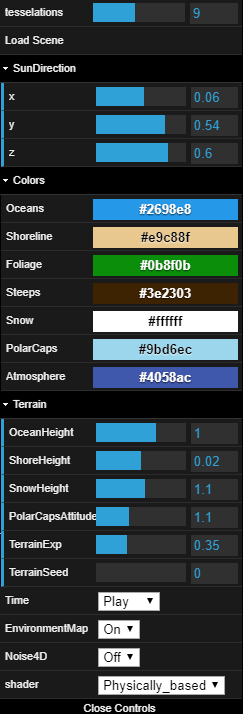
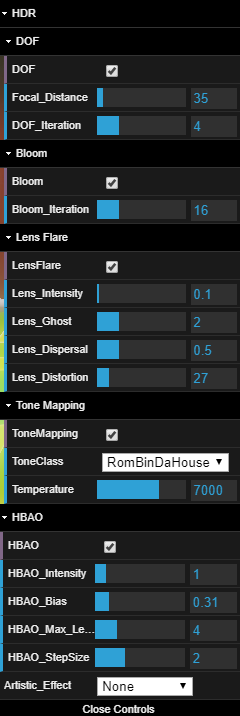
update
update

diff --git a/README.md b/README.md
@@ -14,3 +14,109 @@
 * [WebGL Link](https://byumjin.github.io/MarioInTheSkyCity/)
 
 - Volume up!
+
+### GUI
+
+![](imgs/GUI.png)
+
+- DOF
+    - Focal_Distance : control the focal point focused by main camera.
+    - DOF_Iteration : The number of iteration of DOF's blur 
+- Bloom
+    - Bloom_Iteration : The number of iteration of Bloom effect's blur 
+- Lens Flare
+    - Lens_Intensity : Intensity of Lens flare effect
+    - Lens_Ghost : The number of ghost effects
+    - Lens_Dispersal : The degree of stracted ghost effects
+    - Lens_Distortion : The intensity of choromatic effects
+- Tone Mapping
+    - ToneClass : choose one of pre-defined tone mapping effect
+    - Temperature : control the color temperature
+- HBAO
+    - HBAO_Intensity : Intensity of HBAO
+    - HBAO_Bias : cap the minimum angle for calculating AO
+    - HBAO_Max_Length : cap the maximum length of AO comparison between neighbor pixels
+    - HBAO_StepSize : Step size for comparison between neighbor pixels
+Artistic_Effect
+    - Pointillism
+    - Oil Painting
+
+
+## Graphics PipeLines
+
+| Graphics Pipelines |
+| --- |
+| ![](imgs/pipeline.png) |
+
+
+### Standard Shadow Mapping
+
+I used standard shadow mapping (as known as depthmap shadow).
+Due to the size of my scene, it needed to use a huge resolution of the shadow map (like 4096 x 4096), for the performance of the other post-process effects, I could not do it.
+The resolution of the shadow map is now 2048 x 2048.
+
+
+### HBAO (Horizontal-Based Ambient Occulusion)
+
+| HBAO Off | HBAO On |
+| --- | --- |
+| ![](imgs/HBAO_off.png) | ![](imgs/HBAO_on.png) |
+
+
+### Depth of Field
+
+| Iteration : 4 | Iteration : 16 |
+| --- | --- |
+| ![](imgs/dof_4.png) | ![](imgs/dof_16.png) |
+| Focal Distance : 35 | Focal Distance : 325 |
+| --- | --- |
+| ![](imgs/dof_16.png) | ![](imgs/focal_325.png) |
+
+
+### Bloom
+
+| Bloom Off | Bloom On |
+| --- | --- |
+| ![](imgs/bloom_off.png) | ![](imgs/bloom_on.png) |
+
+
+### Lens Flare
+
+| Lens Flare Off | Lens Flare On |
+| --- | --- |
+| ![](imgs/LF_Off.png) | ![](imgs/LF_On.png) |
+
+
+### Tone Mapping
+
+| None | Linear | ReinHard |
+| --- | --- | --- |
+| ![](imgs/tone_none.png) | ![](imgs/tone_linear.png) | ![](imgs/tone_simple.png) |
+| Lunar-based ReinHard | White Preserving ReinHard | RomBinDa House |
+| --- | --- | --- |
+| ![](imgs/tone_luma.png) | ![](imgs/tone_white.png) | ![](imgs/tone_house.png) |
+
+
+| Filmic 3030K | Filmic 7000K | Filmic 10000K |
+| --- | --- | --- |
+| ![](imgs/tone_filmic_3030.png) | ![](imgs/tone_filmic.png) | ![](imgs/tone_filmic_10000.png) |
+
+
+### Artistic Effect
+
+| None | 
+| --- |
+| ![](imgs/none.png) |
+| Pointillism | 
+| --- |
+| ![](imgs/pointillism.png) |
+| Oil Painting | 
+| --- |
+| ![](imgs/oil.png) |
+
+
+## Music
+ - Dire, Dire Docks - Super Mario 64
+
+
+## References
